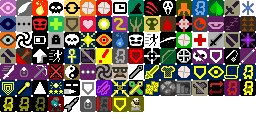
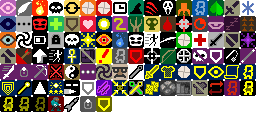
4.1.4:版本号+1；修复 1 层生物量不能自定义 Bug；加强即死陷阱；删除两个未使用 Buff 图标

Changed region(s): [[0.375, 0.75, 0.5625, 0.875]]

diff --git a/core/src/main/java/com/shatteredpixel/shatteredpixeldungeon/levels/traps/GrimTrap.java b/core/src/main/java/com/shatteredpixel/shatteredpixeldungeon/levels/traps/GrimTrap.java
@@ -112,10 +112,7 @@ public class GrimTrap extends Trap {
 					//instant kill, use a mix of current HP and max HP, just like psi blast (for resistances)
 					int damage = Math.round(finalTarget.HT/2f + finalTarget.HP/2f);
 
-					//can't do more than 90% HT for the hero specifically
-					if (finalTarget == Dungeon.hero){
-						damage = (int)Math.min(damage, finalTarget.HT*0.9f);
-					}
+					if (finalTarget instanceof Hero) damage = Math.min(damage, finalTarget.HT - 1);
 
 					final int finalDmg = damage;
 					if (Dungeon.level.heroFOV[pos] || Dungeon.level.heroFOV[target.pos]) {

diff --git a/core/src/main/java/com/shatteredpixel/shatteredpixeldungeon/ui/BuffIndicator.java b/core/src/main/java/com/shatteredpixel/shatteredpixeldungeon/ui/BuffIndicator.java
@@ -152,9 +152,7 @@ public class BuffIndicator extends Component {
 	public static final int PARASITE    = 99;
 	public static final int THROWN_WEP  = 100;
 	public static final int RING        = 101;
-	public static final int SWARM_INTEL = 102;
-	public static final int DWARF_SHLD  = 103;
-	public static final int CLERIC      = 104;
+	public static final int DWARF_SHLD  = 102;
 
 	public static final int SIZE_SMALL  = 7;
 	public static final int SIZE_LARGE  = 16;

diff --git a/core/src/main/java/com/shatteredpixel/shatteredpixeldungeon/levels/RegularLevel.java b/core/src/main/java/com/shatteredpixel/shatteredpixeldungeon/levels/RegularLevel.java
@@ -241,7 +241,7 @@ public abstract class RegularLevel extends Level {
 	@Override
 	protected void createMobs() {
 		//on floor 1, 8 pre-set mobs are created so the player can get level 2.
-		int mobsToSpawn = Dungeon.depth == 1 ? 8 : mobLimit();
+		int mobsToSpawn = Dungeon.depth == 1 ? (8 + (Dungeon.customize ? Dungeon.mobOffset : 0)) : mobLimit();
 
 		ArrayList<Room> stdRooms = new ArrayList<>();
 		for (Room room : rooms) {

diff --git a/core/src/main/java/com/shatteredpixel/shatteredpixeldungeon/actors/mobs/npcs/DwarfCleric.java b/core/src/main/java/com/shatteredpixel/shatteredpixeldungeon/actors/mobs/npcs/DwarfCleric.java
@@ -133,6 +133,8 @@ public class DwarfCleric extends Mob {
 						ScrollOfTeleportation.appear(this, ((ChapelRoom) r).clericPos);
 						Buff.append(Dungeon.hero, TalismanOfForesight.CharAwareness.class, 1).charID = id();
 						appeared = true;
+
+						sprite.idle();
 						break;
 					}
 				}
